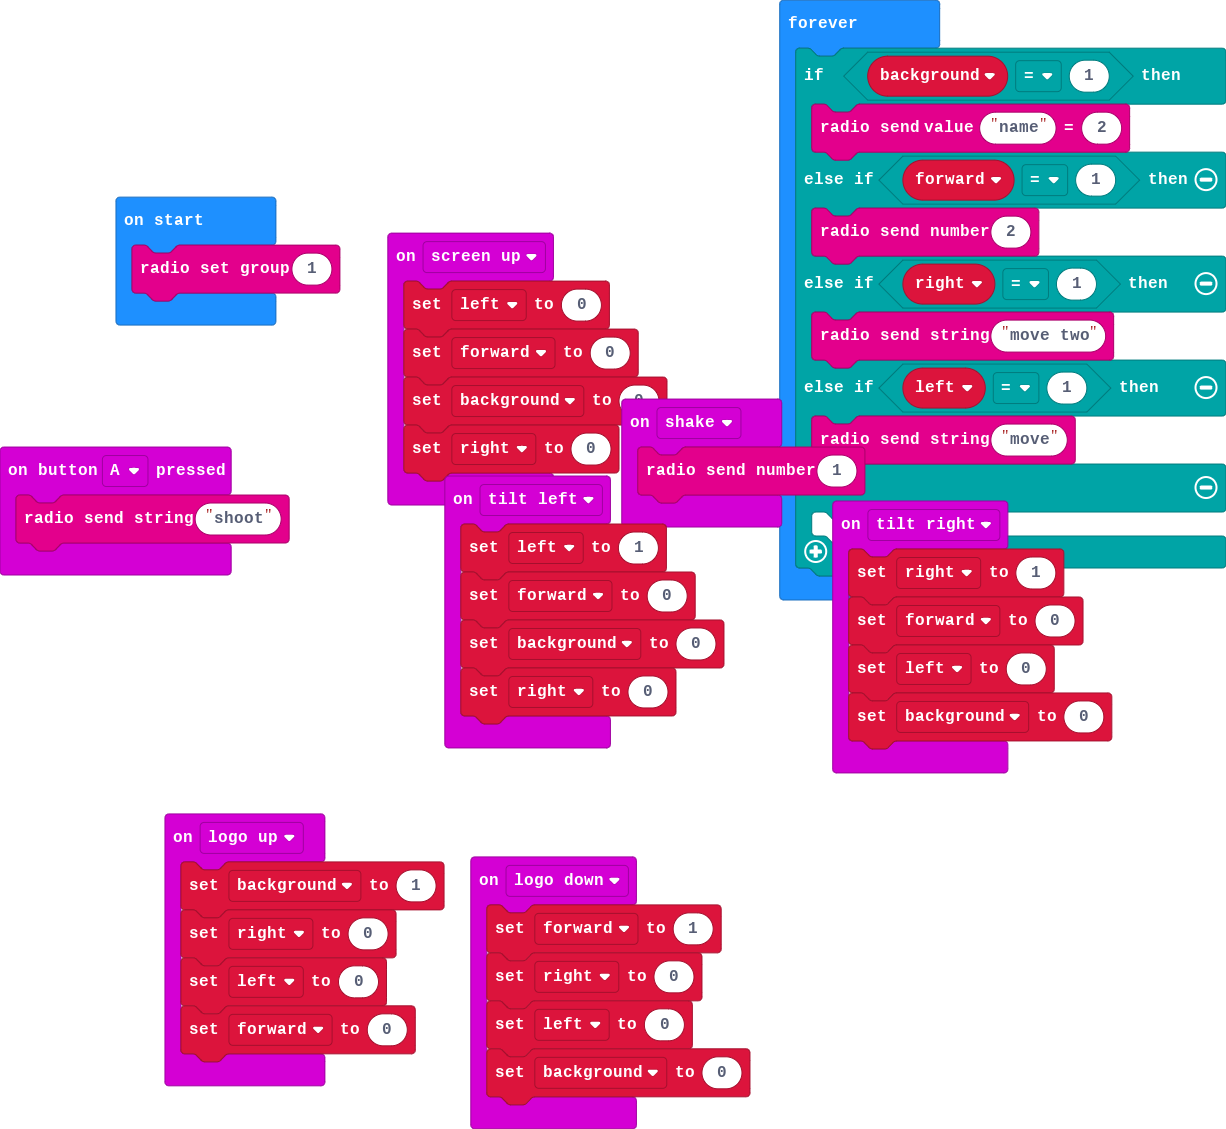
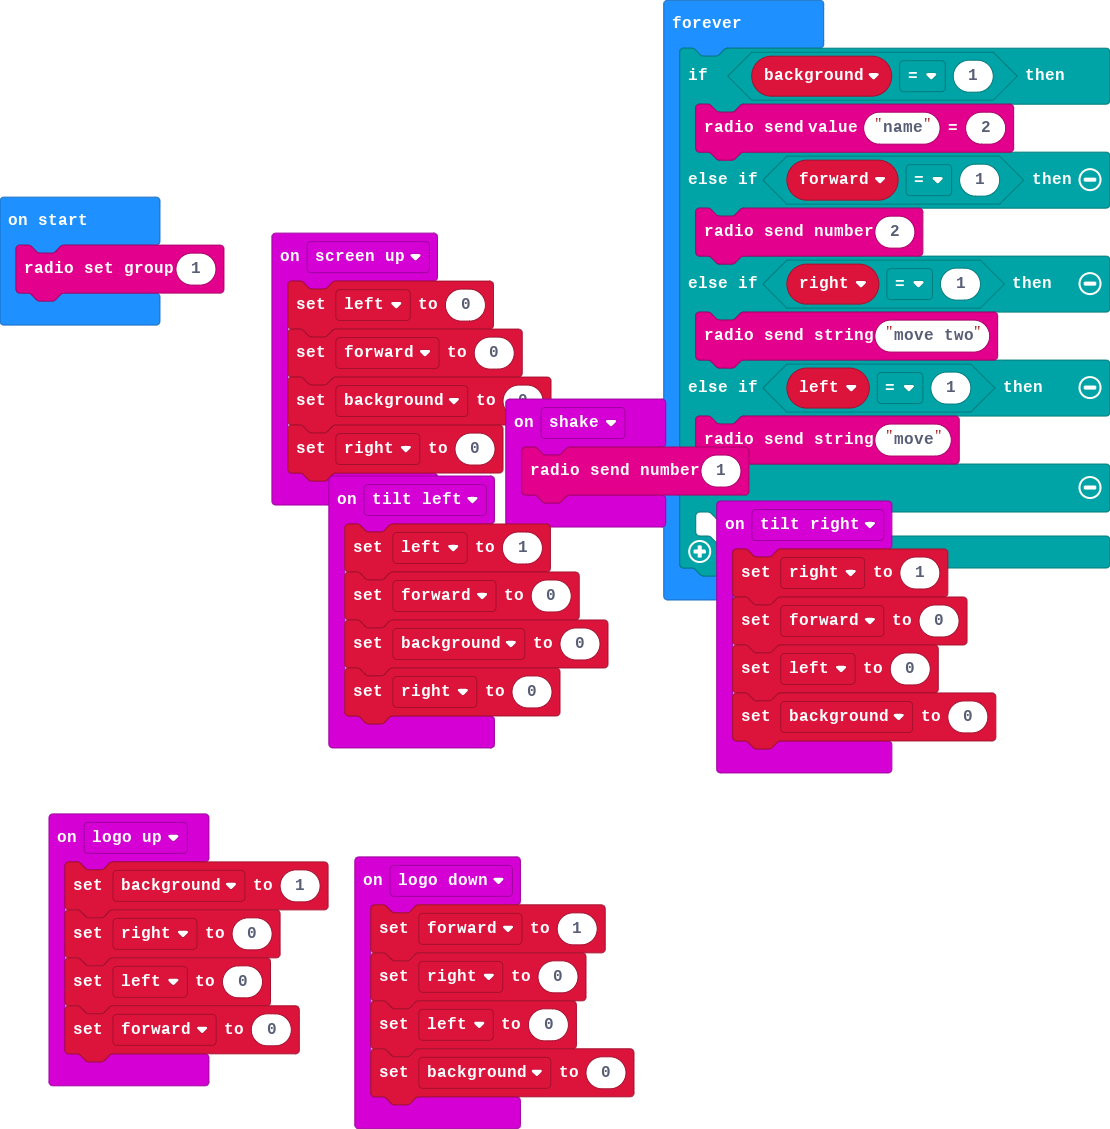
Update main.blocks, main.ts

Changed region(s): [[0.0, 0.0, 1.0, 0.713], [0.0306, 0.713, 0.6126, 1.0], [0.9189, 0.341, 0.9495, 0.372]]

diff --git a/main.ts b/main.ts
@@ -1,6 +1,3 @@
-input.onButtonPressed(Button.A, function () {
-    radio.sendString("shoot")
-})
 input.onGesture(Gesture.LogoUp, function () {
     background = 1
     right = 0
